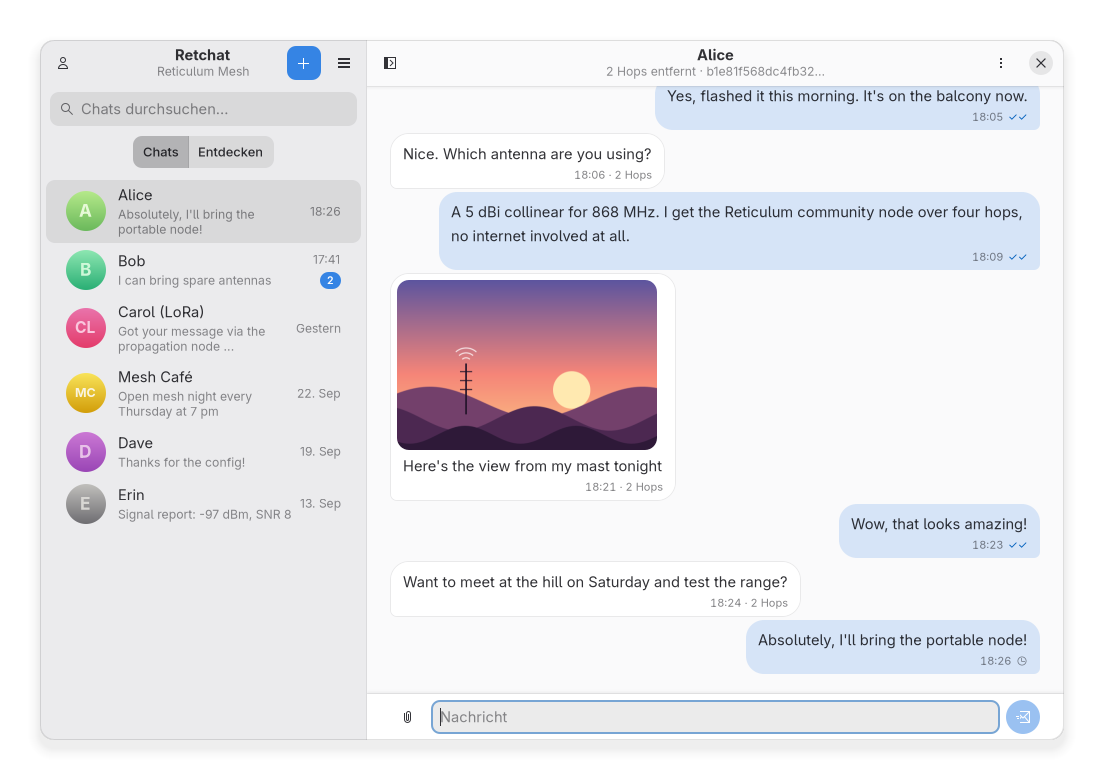
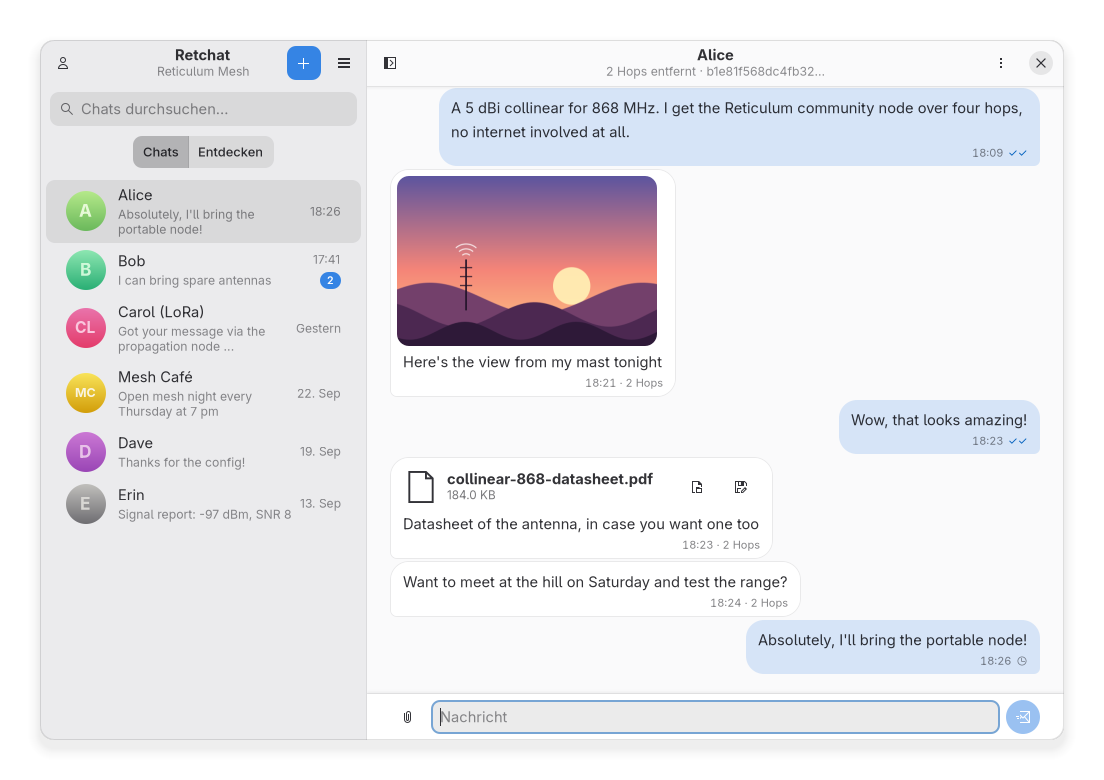
docs: describe file attachments, show one in the screenshots

Changed region(s): [[0.3388, 0.0923, 0.9547, 0.7077], [0.7391, 0.6462, 0.9547, 0.7385], [0.7391, 0.4923, 0.9547, 0.5846]]

diff --git a/data/screenshots/generate_screenshots.py b/data/screenshots/generate_screenshots.py
@@ -113,7 +113,15 @@ CONTACTS = [
 ]
 
 
-def msg(conv, n, text, ts, out=False, state=2, hops=0, image=None):
+DATASHEET = os.path.join("/tmp", "retchat-screenshot-datasheet")
+
+
+def make_datasheet(path):
+    with open(path, "wb") as f:
+        f.write(b"%PDF-1.4\n" + b"0" * 184_000)
+
+
+def msg(conv, n, text, ts, out=False, state=2, hops=0, image=None, files=None):
     return {
         "message_hash": f"{conv}{n:04d}",
         "conversation_hash": conv,
@@ -125,6 +133,7 @@ def msg(conv, n, text, ts, out=False, state=2, hops=0, image=None):
         "image_path": image,
         "image_name": "sunset.png" if image else None,
         "image_size": os.path.getsize(image) if image else None,
+        "files": files or [],
     }
 
 
@@ -139,6 +148,9 @@ def build_messages():
                       "four hops, no internet involved at all.", at(18, 9), out=True),
             msg(a, 5, "Here's the view from my mast tonight", at(18, 21), hops=2, image=PHOTO),
             msg(a, 6, "Wow, that looks amazing!", at(18, 23), out=True),
+            msg(a, 9, "Datasheet of the antenna, in case you want one too", at(18, 23), hops=2,
+                files=[{"path": DATASHEET, "name": "collinear-868-datasheet.pdf",
+                        "size": os.path.getsize(DATASHEET)}]),
             msg(a, 7, "Want to meet at the hill on Saturday and test the range?", at(18, 24), hops=2),
             msg(a, 8, "Absolutely, I'll bring the portable node!", at(18, 26), out=True, state=0),
         ],
@@ -293,6 +305,7 @@ class ShotApp(retchat_app.RetchatApp):
 
     def run_shots(self):
         make_photo(PHOTO)
+        make_datasheet(DATASHEET)
 
         win = self.new_window(1040, 700)
         self.select_chat(win, ALICE)

diff --git a/README.md b/README.md
@@ -25,10 +25,16 @@ The icon is a speech bubble shaped like a ratchet wheel – Retchat, ratchet.
 ## Features
 
 - **Direct messages over LXMF**
-  - Delivery status for sent messages: sending, sent (✓), delivered (✓✓), failed.
-  - Send and receive images, with a built-in image viewer.
+  - Live delivery status for sent messages: sending, sent to a propagation node (✓), delivered (✓✓), failed.
   - Rename contacts, copy their address, request a path through the mesh.
   - Delete chats from the chat menu, or by right click / long press in the chat list.
+- **Images and files**
+  - Images are downscaled before sending and shown inline, with a built-in image viewer.
+  - Send any other file up to 900 KB (LXMF receivers accept 1000 KB per message by default). Files above 256 KB
+    can only be delivered directly, not via propagation nodes – Retchat points this out before sending.
+  - Received files show their type, name and size and can be opened or saved. Executables and scripts can only be
+    saved, not opened directly.
+  - Works with attachments from other LXMF clients (file attachments, images, voice messages).
 - **Discover peers on the mesh**
   - The *Entdecken* (discover) tab lists `lxmf.delivery` announces with display name, address and hop count.
   - Start a chat with a single click.
@@ -101,7 +107,7 @@ Retchat uses [NomadNet](https://github.com/markqvist/NomadNet) as its LXMF backe
 |---|---|
 | `~/.nomadnetwork/storage/identity` | Your Reticulum identity (private key) |
 | `~/.nomadnetwork/storage/conversations/` | Messages |
-| `~/.nomadnetwork/storage/attachments/` | Received images and files |
+| `~/.nomadnetwork/storage/attachments/` | Images and files of received and sent messages |
 | `~/.nomadnetwork/config` | NomadNet settings, e.g. announce interval (default: at start and every 6 hours) |
 | `~/.reticulum/config` | Reticulum interfaces; on first start Retchat makes sure a TCP interface is configured |
 | `~/.local/share/retchat/retchat.db` | Retchat's own data: custom contact names and settings |
@@ -134,7 +140,8 @@ retchat/
     ├── widgets/
     │   ├── chat_history.py            # Gtk.ListView history that keeps the newest message in view
     │   ├── chat_view.py               # Direct chat: history and composer
-    │   ├── message_bubble.py          # Message bubble with image and delivery status
+    │   ├── message_bubble.py          # Message bubble with image, files and delivery status
+    │   ├── attachment_row.py          # File attachment row (open / save) and file helpers
     │   ├── conversation_row.py        # Row in the chat list
     │   └── announce_row.py            # Row in the discover list
     └── dialogs/
